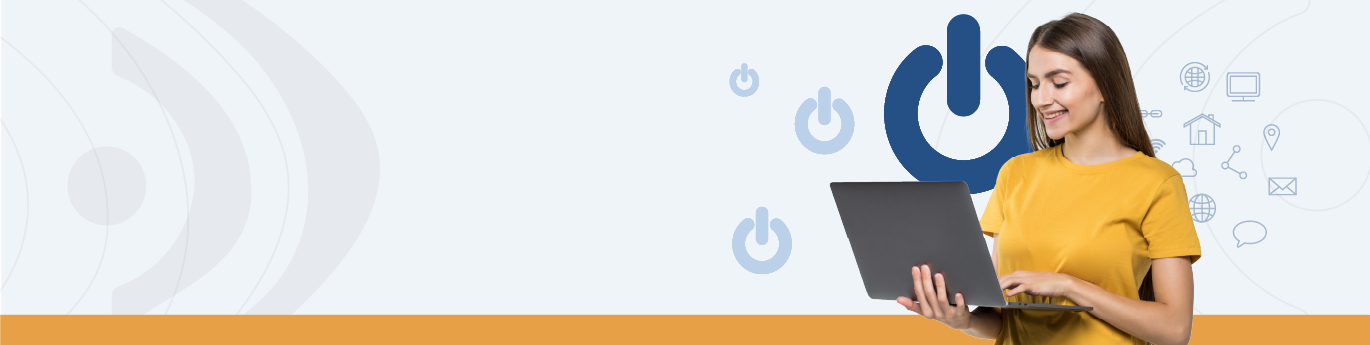
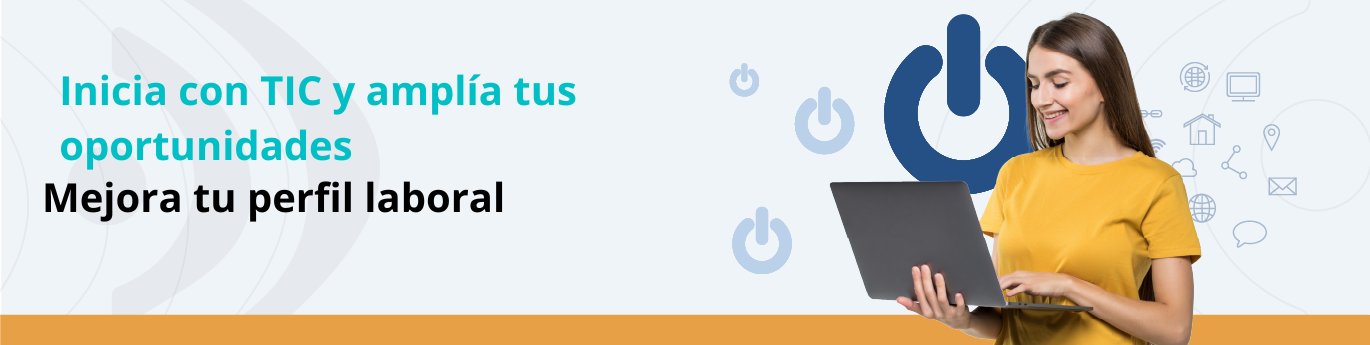
agregando_nuevo_contenido

Changed region(s): [[0.0307, 0.2029, 0.4292, 0.3188], [0.0307, 0.5217, 0.3679, 0.6377], [0.0307, 0.3768, 0.2759, 0.4928]]

diff --git a/gobernacion_de_bolivar_tic/styles.css b/gobernacion_de_bolivar_tic/styles.css
@@ -35,7 +35,7 @@ header {
     border: none;
     cursor: pointer;
     font-weight: bold;
-    color: rgb(0, 0, 0);
+    zcolor: rgb(0, 0, 0);
 }
 nav {
     display: flex;
@@ -88,103 +88,97 @@ nav a:hover {
         margin: 0;
     }
 }
-/*estilizando_carrusel*/
+/* Estilos base del carrusel */
 .carousel-container {
-    position: relative;
     width: 100%;
+    margin: auto;
+    position: relative;
     overflow: hidden;
 }
 
-.carousel {
+.carousel-slide {
     display: flex;
-    transition: transform 0.5s ease;
 }
 
-.carousel img {
+.carousel-slide img {
     width: 100%;
-    height: auto;
+    display: block;
 }
 
-.indicators {
+.carousel-indicators {
+    text-align: center;
     position: absolute;
     bottom: 10px;
     left: 50%;
     transform: translateX(-50%);
-    display: flex;
 }
 
-.indicator {
+.carousel-indicator {
+    display: inline-block;
     width: 10px;
     height: 10px;
-    background-color: gray;
-    margin: 0 5px;
+    background-color: #bbb;
     border-radius: 50%;
-}
-/*estilizando_carrusel*/
-.carousel-container {
-    position: relative;
-    width: 100%;
-    overflow: hidden;
-}
-
-.carousel {
-    display: flex;
-    transition: transform 0.5s ease;
-}
-
-.slide {
-    position: relative;
-    min-width: 100%;
-}
-
-.carousel img {
-    width: 100%;
-    height: auto;
-}
-
-.indicators {
-    position: absolute;
-    bottom: 10px;
-    left: 50%;
-    transform: translateX(-50%);
-    display: flex;
-}
-
-.indicator {
-    width: 10px;
-    height: 10px;
-    background-color: gray;
     margin: 0 5px;
-    border-radius: 50%;
+    cursor: pointer;
 }
 
-.indicator:nth-child(1) {
-    background-color: rgb(0, 0, 0); /* Color para la primera página */
+.carousel-indicator.active {
+    background-color: #333;
 }
 
-.indicator:nth-child(2) {
-    background-color: rgb(0, 0, 0); /* Color para la segunda página */
-}
-
-.indicator:nth-child(3) {
-    background-color: rgb(0, 0, 0); /* Color para la tercera página */
-}
-
-.indicator:nth-child(4) {
-    background-color: rgb(0, 0, 0); /* Color para la cuarta página */
-}
-
-.indicator.active {
-    background-color: rgb(255, 204, 0); /* Color cuando la página está activa */
-}
-
-/* Reglas de medios para dispositivos más pequeños */
+/* Estilos responsivos */
 @media screen and (max-width: 768px) {
-    .slide h2 {
-        font-size: 14px; /* Reducir tamaño de fuente del título en dispositivos pequeños */
+    .carousel-container {
+        width: 100%;
     }
+}
 
-    .slide button {
-        font-size: 12px; /* Reducir tamaño de fuente del botón en dispositivos pequeños */
+@media screen and (max-width: 576px) {
+    .carousel-container {
+        width: 95%;
     }
+}
+
+@media screen and (max-width: 480px) {
+    .carousel-container {
+        width: 100%;
+    }
+}
+
+@media screen and (max-width: 320px) {
+    .carousel-indicators {
+        bottom: 5px;
+    }
+}
+/*estilizando_informacion*/
+.parrafo_1{
+    font-size: 25px;
+    width: 500px;
+    margin-top: 5px;
+    margin-left: 125px;
+    font-family: Arial;
+    text-align: justify;
+}
+.contenedor_1{
+    margin-left: 640px;
+    margin-top: -297px;
+}
+.boton_1 {
+    font-size: 25px;
+    border-radius: 5px;
+    border: 2px solid rgb(0, 0, 0);
+    background: rgb(93, 93, 220);
+    transition: background-color 0.3s ease;
+}
+.boton_2 {
+    font-size: 25px;
+    margin-top: 10px;
+    border-radius: 5px;
+    border: 2px solid rgb(0, 0, 0);
+    background: rgb(93, 93, 220);
+    transition: background-color 0.3s ease;
+}
+.boton_1:hover, .boton_2:hover {
+    background: rgb(50, 50, 180);
 }

diff --git a/gobernacion_de_bolivar_tic/script.js b/gobernacion_de_bolivar_tic/script.js
@@ -8,42 +8,51 @@ document.addEventListener("DOMContentLoaded", function () {
     });
 });
 //funcionalidad_carrusel
-const carousel = document.querySelector('.carousel');
-const indicators = document.querySelectorAll('.indicator');
-let currentIndex = 0;
-let intervalId;
-
-function updateCarousel() {
-    const position = -currentIndex * carousel.clientWidth;
-    carousel.style.transform = `translateX(${position}px)`;
-    indicators.forEach((indicator, index) => {
-        if (index === currentIndex) {
-            indicator.classList.add('active');
+document.addEventListener("DOMContentLoaded", function() {
+    const slides = document.querySelectorAll('.carousel-slide img');
+    const indicatorsContainer = document.querySelector('.carousel-indicators');
+    let currentSlide = 0;
+  
+    slides.forEach((slide, index) => {
+      const indicator = document.createElement('span');
+      indicator.classList.add('carousel-indicator');
+      if (index === 0) indicator.classList.add('active');
+      indicator.addEventListener('click', () => {
+        goToSlide(index);
+      });
+      indicatorsContainer.appendChild(indicator);
+    });
+  
+    function goToSlide(n) {
+      slides.forEach(slide => {
+        slide.style.display = 'none';
+      });
+      slides[n].style.display = 'block';
+      currentSlide = n;
+      updateIndicators();
+    }
+  
+    function updateIndicators() {
+      const indicators = document.querySelectorAll('.carousel-indicator');
+      indicators.forEach((indicator, index) => {
+        if (index === currentSlide) {
+          indicator.classList.add('active');
         } else {
-            indicator.classList.remove('active');
+          indicator.classList.remove('active');
         }
-    });
-}
-
-function nextSlide() {
-    currentIndex = (currentIndex + 1) % indicators.length;
-    updateCarousel();
-}
-
-function startCarousel() {
-    intervalId = setInterval(nextSlide, 3000);
-}
-
-function stopCarousel() {
-    clearInterval(intervalId);
-}
-
-indicators.forEach((indicator, index) => {
-    indicator.addEventListener('click', () => {
-        currentIndex = index;
-        updateCarousel();
-        stopCarousel();
-    });
-});
-
-startCarousel();
+      });
+    }
+  
+    function nextSlide() {
+      currentSlide = (currentSlide + 1) % slides.length;
+      goToSlide(currentSlide);
+    }
+  
+    function prevSlide() {
+      currentSlide = (currentSlide - 1 + slides.length) % slides.length;
+      goToSlide(currentSlide);
+    }
+  
+    setInterval(nextSlide, 3000); // Cambia la imagen cada 3 segundos
+  });
+//funcionalidad_informacion  

diff --git a/gobernacion_de_bolivar_tic/index.html b/gobernacion_de_bolivar_tic/index.html
@@ -29,27 +29,26 @@
     </header>
     <!--estructurando_carrusel-->
     <div class="carousel-container">
-        <div class="carousel">
-            <div class="slide">
-                <img src="imagen_4.png" alt="Imagen 1">
-            </div>
-            <div class="slide">
-                <img src="imagen_5.png" alt="Imagen 2">
-            </div>
-            <div class="slide">
-                <img src="imagen_6.png" alt="Imagen 3">
-            </div>
-            <div class="slide">
-                <img src="imagen_7.png" alt="Imagen 4">
-            </div>
+        <div class="carousel-slide">
+            <img src="imagen_6.png" alt="Imagen 1">
+            <img src="imagen_5.png" alt="Imagen 2">
+            <img src="imagen_4.png" alt="Imagen 3">
+            <img src="imagen_7.png" alt="Imagen 4">
         </div>
-        <div class="indicators">
-            <div class="indicator"></div>
-            <div class="indicator"></div>
-            <div class="indicator"></div>
-            <div class="indicator"></div>
-        </div>
+        <div class="carousel-indicators"></div>
     </div>
-
+    <!--estructurando_informacion-->
+    <p class="parrafo_1">
+        <b>
+            Inicia con TIC es escribir el futuro, dar ese primer paso en el camino correcto. 
+            Es cambiar y aprender todo lo necesario para navegar en Internet mientras mejoras 
+            tu perfil laboral, ayudas a tu comunidad y descubres nuevos horizontes. ¡Es hora del 
+            cambio! ¡Trece cursos virtuales hechos a tu medida y a tus necesidades!
+        </b>
+    </p>
+    <div class="contenedor_1">
+        <button class="boton_1"><b>¡Si ya tienes cuenta, ingresa aquí!</b></button>
+        <button class="boton_2"><b>Si no tienes cuenta, ingresa aquí</b></button>
+    </div>
 </body>
 </html>
